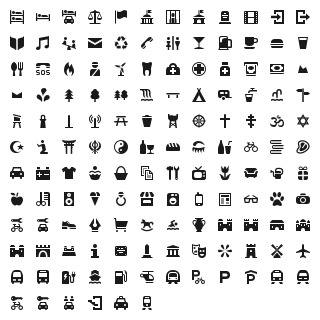
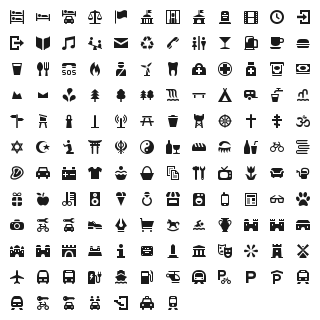
added clock

diff --git a/font/osmic-preview.html b/font/osmic-preview.html
@@ -193,6 +193,7 @@
 .oc-christian-orthodox:before,
 .oc-cinema:before,
 .oc-city-gate:before,
+.oc-clock:before,
 .oc-clothes:before,
 .oc-confectionery:before,
 .oc-convenience:before,
@@ -345,6 +346,7 @@
 .oc-christian-orthodox:before { content: "\f119"; }
 .oc-cinema:before { content: "\f11a"; }
 .oc-city-gate:before { content: "\f11b"; }
+.oc-clock:before { content: "\f18c"; }
 .oc-clothes:before { content: "\f11c"; }
 .oc-confectionery:before { content: "\f18b"; }
 .oc-convenience:before { content: "\f11d"; }
@@ -465,7 +467,7 @@
   <body class="characters-off">
     <div id="page" class="container">
       <header>
-        <h1>osmic contains 138 glyphs:</h1>
+        <h1>osmic contains 139 glyphs:</h1>
         <a onclick="toggleCharacters(); return false;" href="#">Toggle Preview Characters</a>
       </header>
 
@@ -896,6 +898,19 @@
         <div class="usage">
           <input class="class" type="text" readonly="readonly" onClick="this.select();" value=".oc-city-gate" />
           <input class="point" type="text" readonly="readonly" onClick="this.select();" value="&amp;#xf11b;" />
+        </div>
+      </div>
+      
+      <div class="glyph">
+        <div class="preview-glyphs">
+          <span class="step size-12"><span class="letters">Pp</span><i id="oc-clock" class="oc-clock"></i></span><span class="step size-14"><span class="letters">Pp</span><i id="oc-clock" class="oc-clock"></i></span><span class="step size-16"><span class="letters">Pp</span><i id="oc-clock" class="oc-clock"></i></span><span class="step size-18"><span class="letters">Pp</span><i id="oc-clock" class="oc-clock"></i></span><span class="step size-21"><span class="letters">Pp</span><i id="oc-clock" class="oc-clock"></i></span><span class="step size-24"><span class="letters">Pp</span><i id="oc-clock" class="oc-clock"></i></span><span class="step size-36"><span class="letters">Pp</span><i id="oc-clock" class="oc-clock"></i></span><span class="step size-48"><span class="letters">Pp</span><i id="oc-clock" class="oc-clock"></i></span><span class="step size-60"><span class="letters">Pp</span><i id="oc-clock" class="oc-clock"></i></span><span class="step size-72"><span class="letters">Pp</span><i id="oc-clock" class="oc-clock"></i></span>
+        </div>
+        <div class="preview-scale">
+          <span class="step">12</span><span class="step">14</span><span class="step">16</span><span class="step">18</span><span class="step">21</span><span class="step">24</span><span class="step">36</span><span class="step">48</span><span class="step">60</span><span class="step">72</span>
+        </div>
+        <div class="usage">
+          <input class="class" type="text" readonly="readonly" onClick="this.select();" value=".oc-clock" />
+          <input class="point" type="text" readonly="readonly" onClick="this.select();" value="&amp;#xf18c;" />
         </div>
       </div>
       

diff --git a/font/osmic.css b/font/osmic.css
@@ -56,6 +56,7 @@
 .oc-christian-orthodox:before,
 .oc-cinema:before,
 .oc-city-gate:before,
+.oc-clock:before,
 .oc-clothes:before,
 .oc-confectionery:before,
 .oc-convenience:before,
@@ -208,6 +209,7 @@
 .oc-christian-orthodox:before { content: "\f119"; }
 .oc-cinema:before { content: "\f11a"; }
 .oc-city-gate:before { content: "\f11b"; }
+.oc-clock:before { content: "\f18c"; }
 .oc-clothes:before { content: "\f11c"; }
 .oc-confectionery:before { content: "\f18b"; }
 .oc-convenience:before { content: "\f11d"; }
